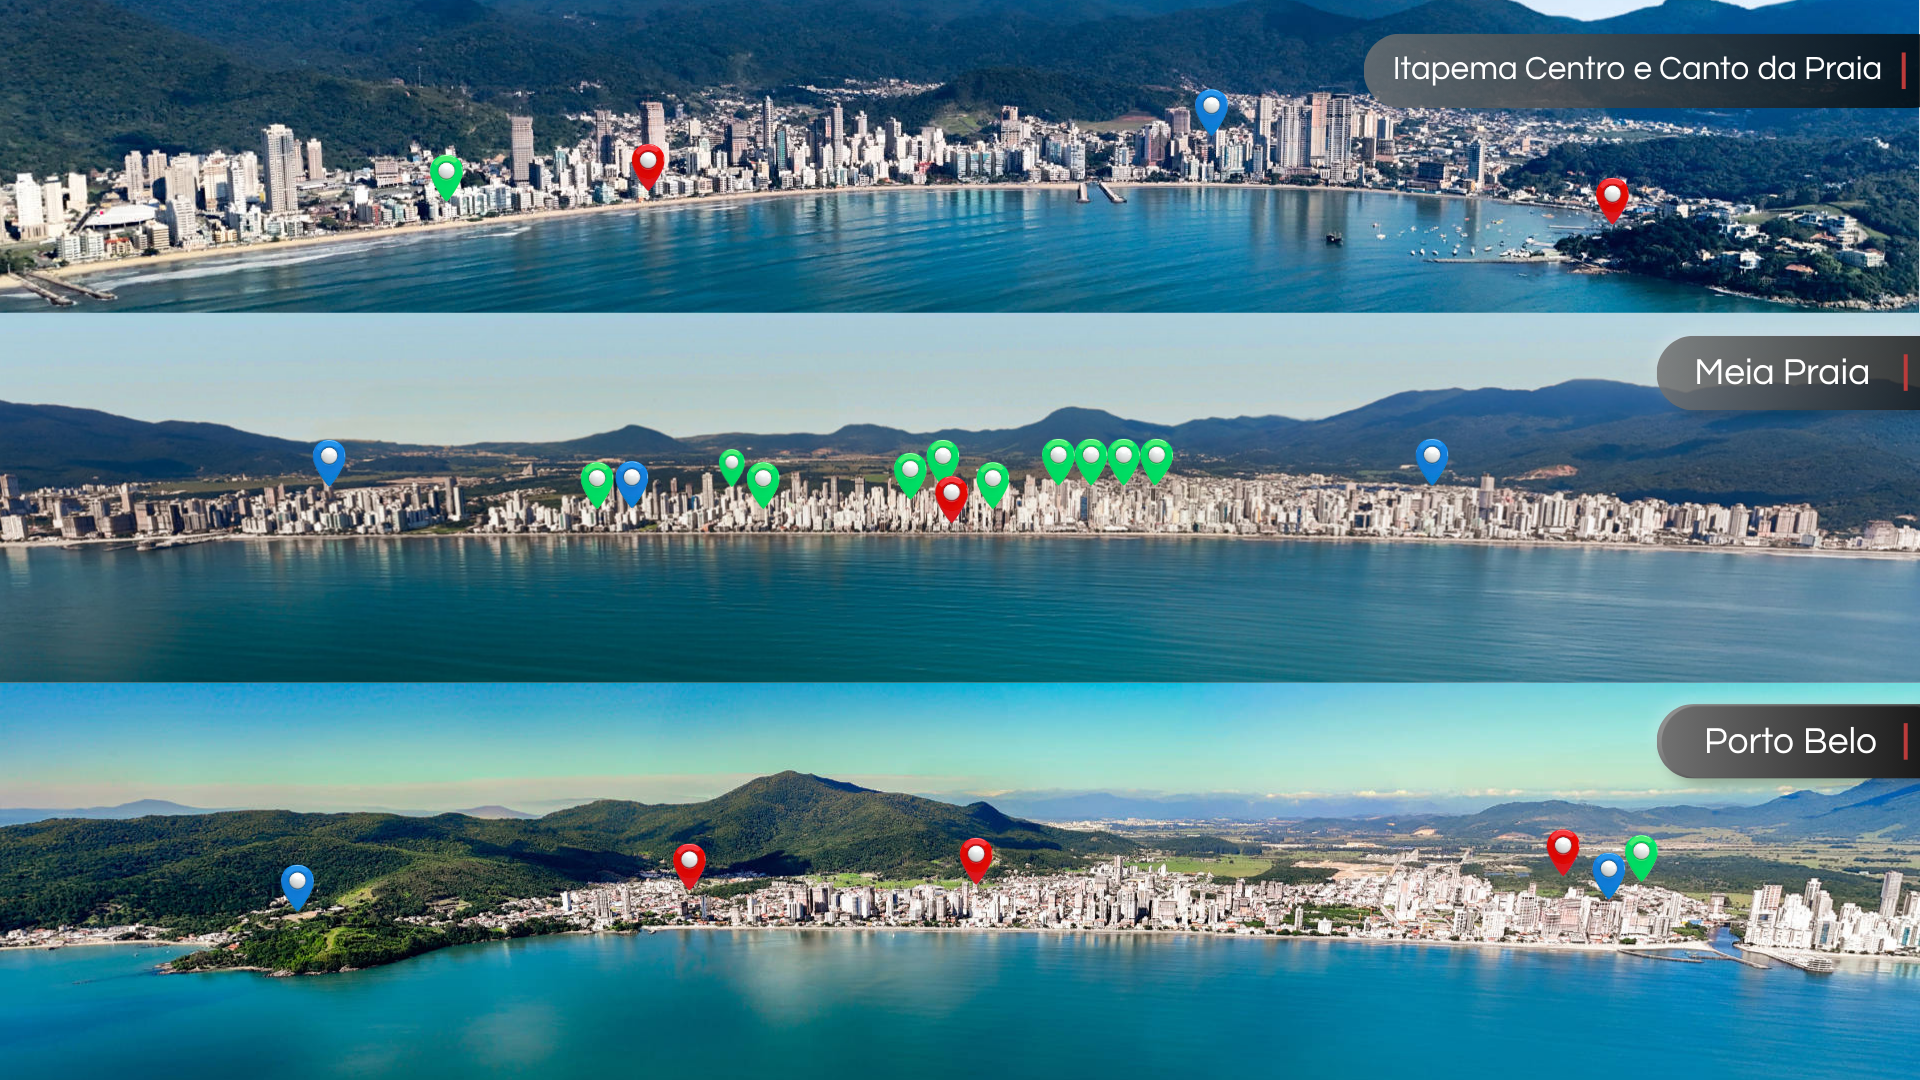
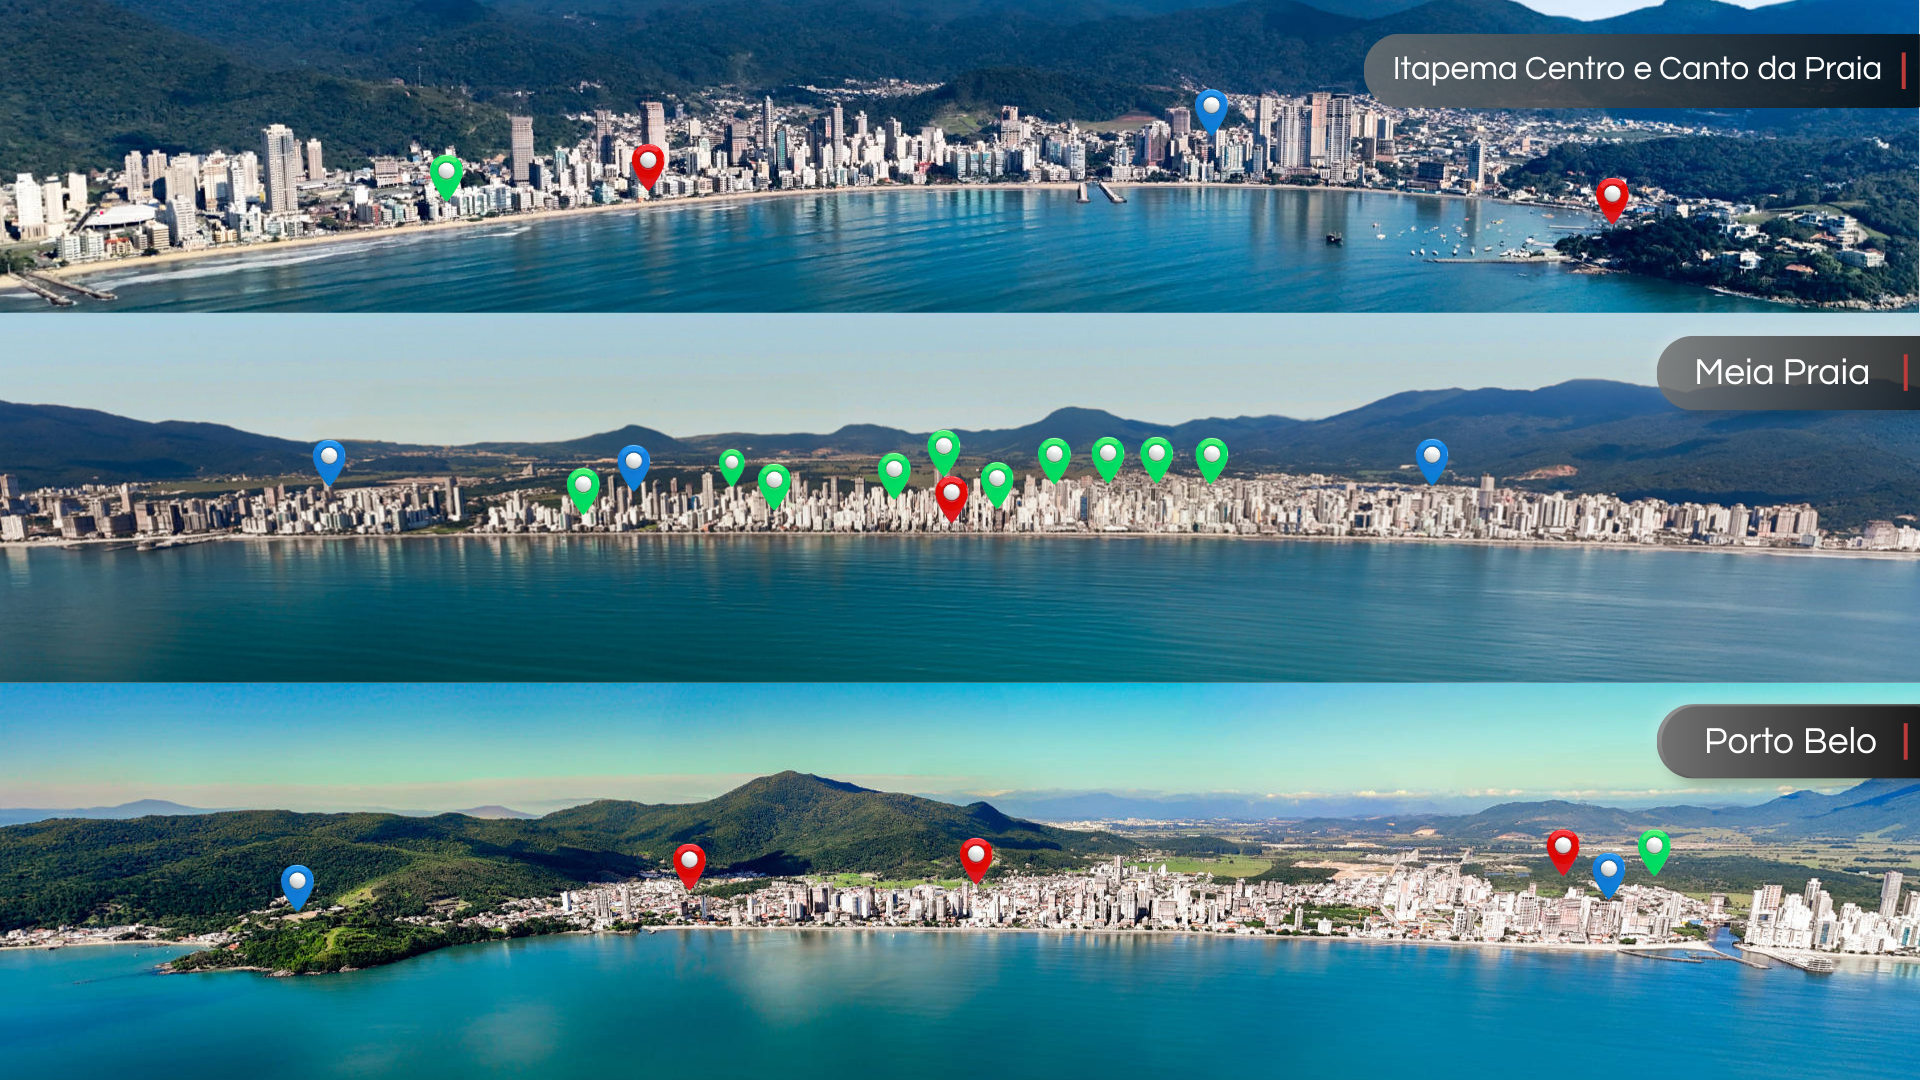
s10: nova imagem mapa, pinos Itapema recalibrados, fix mobile toque, aviso rotação maior

Changed region(s): [[0.375, 0.3972, 0.6562, 0.4889], [0.2812, 0.3972, 0.3438, 0.4889], [0.8438, 0.7639, 0.875, 0.825]]

diff --git a/index.html b/index.html
@@ -99,6 +99,7 @@ p,span,div{font-family:var(--font-b)}
 .mpin{position:absolute;transform:translate(-50%,-50%);cursor:pointer;z-index:30;width:48px;height:48px;border-radius:50%;background:rgba(255,255,255,0.02)}
 .mpin-tip{display:none;position:absolute;bottom:calc(100% + 6px);left:50%;transform:translateX(-50%);padding:5px 13px;border-radius:4px;font-family:'Barlow Condensed','Arial Narrow',Arial,sans-serif;font-size:13px;font-weight:800;letter-spacing:.1em;text-transform:uppercase;white-space:nowrap;pointer-events:none;color:#fff;box-shadow:0 2px 12px rgba(0,0,0,.55);z-index:40}
 .mpin-tip.show{display:block}
+.mpin-tip.tip-below{bottom:auto;top:calc(100% + 6px)}
 .tc-red{background:#e0242c}
 .tc-blue{background:#1565c0}
 .tc-green{background:#1e8c3a}
@@ -1051,24 +1052,24 @@ p,span,div{font-family:var(--font-b)}
 
     <!-- ══ ITAPEMA CENTRO E CANTO DA PRAIA — posições calibradas por pixel scan ══ -->
     <div class="mpin" style="left:23%;top:16%"><div class="mpin-tip tc-green">LINS</div></div>
-    <div class="mpin" style="left:34%;top:16%"><div class="mpin-tip tc-red" data-i18n="s10-pin-soon">Em Breve</div></div>
-    <div class="mpin" style="left:63%;top:10%"><div class="mpin-tip tc-blue">Accendis</div></div>
-    <div class="mpin" style="left:84%;top:18%"><div class="mpin-tip tc-red" data-i18n="s10-pin-soon">Em Breve</div></div>
+    <div class="mpin" style="left:34%;top:15%"><div class="mpin-tip tc-red" data-i18n="s10-pin-soon">Em Breve</div></div>
+    <div class="mpin" style="left:63%;top:9.5%"><div class="mpin-tip tc-blue">Accendis</div></div>
+    <div class="mpin" style="left:84%;top:17.5%"><div class="mpin-tip tc-red" data-i18n="s10-pin-soon">Em Breve</div></div>
 
     <!-- ══ MEIA PRAIA — posições calibradas por pixel scan ══ -->
-    <div class="mpin" style="left:17%;top:42%"><div class="mpin-tip tc-blue">Thiesen</div></div>
+    <div class="mpin" style="left:17%;top:43%"><div class="mpin-tip tc-blue">Thiesen</div></div>
     <div class="mpin" style="left:74%;top:41%"><div class="mpin-tip tc-blue">Mellizo</div></div>
-    <div class="mpin" style="left:31%;top:44%"><div class="mpin-tip tc-green">Denver</div></div>
-    <div class="mpin" style="left:33%;top:45%"><div class="mpin-tip tc-blue">Serenity</div></div>
+    <div class="mpin" style="left:30%;top:44%"><div class="mpin-tip tc-green">Denver</div></div>
+    <div class="mpin" style="left:33%;top:43%"><div class="mpin-tip tc-blue">Serenity</div></div>
     <div class="mpin" style="left:38%;top:44%"><div class="mpin-tip tc-green">Acqua</div></div>
     <div class="mpin" style="left:40%;top:45%"><div class="mpin-tip tc-green">Horizon</div></div>
     <div class="mpin" style="left:47%;top:44%"><div class="mpin-tip tc-green">Lunen</div></div>
     <div class="mpin" style="left:49%;top:43%"><div class="mpin-tip tc-green">Cannes</div></div>
     <div class="mpin" style="left:52%;top:44%"><div class="mpin-tip tc-green">Lisboa</div></div>
     <div class="mpin" style="left:55%;top:42%"><div class="mpin-tip tc-green">K.Center</div></div>
-    <div class="mpin" style="left:57%;top:42%"><div class="mpin-tip tc-green">Classic</div></div>
-    <div class="mpin" style="left:59%;top:42%"><div class="mpin-tip tc-green">Hanôver</div></div>
-    <div class="mpin" style="left:60%;top:42%"><div class="mpin-tip tc-green">Kalin</div></div>
+    <div class="mpin" style="left:58%;top:42%"><div class="mpin-tip tc-green">Classic</div></div>
+    <div class="mpin" style="left:61%;top:42%"><div class="mpin-tip tc-green">Hanôver</div></div>
+    <div class="mpin" style="left:63%;top:42%"><div class="mpin-tip tc-green">Kalin</div></div>
     <div class="mpin" style="left:50%;top:47%"><div class="mpin-tip tc-red" data-i18n="s10-pin-soon">Em Breve</div></div>
 
     <!-- ══ PORTO BELO — posições calibradas por pixel scan ══ -->
@@ -1076,7 +1077,7 @@ p,span,div{font-family:var(--font-b)}
     <div class="mpin" style="left:36%;top:79%"><div class="mpin-tip tc-red" data-i18n="s10-pin-soon">Em Breve</div></div>
     <div class="mpin" style="left:51%;top:77%"><div class="mpin-tip tc-red" data-i18n="s10-pin-soon">Em Breve</div></div>
     <div class="mpin" style="left:81%;top:78%"><div class="mpin-tip tc-red" data-i18n="s10-pin-soon">Em Breve</div></div>
-    <div class="mpin" style="left:85%;top:79%"><div class="mpin-tip tc-green">Riverside</div></div>
+    <div class="mpin" style="left:86%;top:79%"><div class="mpin-tip tc-green">Riverside</div></div>
     <div class="mpin" style="left:83%;top:79%"><div class="mpin-tip tc-blue">Soltero</div></div>
 
   </div>
@@ -1298,21 +1299,21 @@ p,span,div{font-family:var(--font-b)}
 #rotate-hint .rh-arrow{animation:rh-fade 2.4s ease-in-out infinite}
 </style>
 <div id="rotate-hint">
-  <div style="position:relative;width:72px;height:72px;display:flex;align-items:center;justify-content:center">
+  <div style="position:relative;width:110px;height:110px;display:flex;align-items:center;justify-content:center">
     <div class="rh-phone">
-      <svg xmlns="http://www.w3.org/2000/svg" width="52" height="52" viewBox="0 0 24 24" fill="none" stroke="#1a3a6e" stroke-width="1.8" stroke-linecap="round" stroke-linejoin="round"><rect x="5" y="2" width="14" height="20" rx="2"/><line x1="12" y1="18" x2="12.01" y2="18" stroke-width="2.5"/></svg>
+      <svg xmlns="http://www.w3.org/2000/svg" width="80" height="80" viewBox="0 0 24 24" fill="none" stroke="#3a6abf" stroke-width="1.8" stroke-linecap="round" stroke-linejoin="round"><rect x="5" y="2" width="14" height="20" rx="2"/><line x1="12" y1="18" x2="12.01" y2="18" stroke-width="2.5"/></svg>
     </div>
-    <div class="rh-arrow" style="position:absolute;right:-18px;top:50%;transform:translateY(-50%)">
-      <svg xmlns="http://www.w3.org/2000/svg" width="22" height="22" viewBox="0 0 24 24" fill="none" stroke="rgba(255,255,255,.5)" stroke-width="2" stroke-linecap="round" stroke-linejoin="round"><path d="M5 12h14M14 6l6 6-6 6"/></svg>
+    <div class="rh-arrow" style="position:absolute;right:-22px;top:50%;transform:translateY(-50%)">
+      <svg xmlns="http://www.w3.org/2000/svg" width="32" height="32" viewBox="0 0 24 24" fill="none" stroke="rgba(255,255,255,.7)" stroke-width="2" stroke-linecap="round" stroke-linejoin="round"><path d="M5 12h14M14 6l6 6-6 6"/></svg>
     </div>
-    <div style="position:absolute;right:-52px;top:50%;transform:translateY(-50%) rotate(-90deg)">
-      <svg xmlns="http://www.w3.org/2000/svg" width="52" height="52" viewBox="0 0 24 24" fill="none" stroke="rgba(26,58,110,.45)" stroke-width="1.8" stroke-linecap="round" stroke-linejoin="round"><rect x="5" y="2" width="14" height="20" rx="2"/><line x1="12" y1="18" x2="12.01" y2="18" stroke-width="2.5"/></svg>
+    <div style="position:absolute;right:-72px;top:50%;transform:translateY(-50%) rotate(-90deg)">
+      <svg xmlns="http://www.w3.org/2000/svg" width="80" height="80" viewBox="0 0 24 24" fill="none" stroke="rgba(58,106,191,.5)" stroke-width="1.8" stroke-linecap="round" stroke-linejoin="round"><rect x="5" y="2" width="14" height="20" rx="2"/><line x1="12" y1="18" x2="12.01" y2="18" stroke-width="2.5"/></svg>
     </div>
   </div>
-  <div style="width:48px;height:2px;background:var(--blue,#1a3a6e);margin-top:8px;border-radius:2px"></div>
-  <div style="font-family:'Barlow Condensed',Arial Narrow,sans-serif;font-size:1.35rem;font-weight:700;letter-spacing:.22em;text-transform:uppercase;color:#fff;line-height:1.3">Gire o dispositivo</div>
-  <div style="font-family:'Raleway',sans-serif;font-size:.92rem;color:rgba(255,255,255,.55);line-height:1.6;max-width:260px">Para a melhor experiência,<br>use o modo <strong style="color:rgba(255,255,255,.85)">paisagem</strong></div>
-  <div style="font-family:'Barlow Condensed',Arial Narrow,sans-serif;font-size:.78rem;letter-spacing:.18em;text-transform:uppercase;color:rgba(255,255,255,.3);margin-top:4px">Rotate for best experience</div>
+  <div style="width:60px;height:3px;background:#3a6abf;margin-top:16px;border-radius:2px"></div>
+  <div style="font-family:'Barlow Condensed',Arial Narrow,sans-serif;font-size:2rem;font-weight:800;letter-spacing:.22em;text-transform:uppercase;color:#fff;line-height:1.3">Gire o dispositivo</div>
+  <div style="font-family:'Raleway',sans-serif;font-size:1.2rem;color:rgba(255,255,255,.75);line-height:1.6;max-width:300px">Para a melhor experiência,<br>use o modo <strong style="color:#fff">paisagem</strong></div>
+  <div style="font-family:'Barlow Condensed',Arial Narrow,sans-serif;font-size:1rem;letter-spacing:.18em;text-transform:uppercase;color:rgba(255,255,255,.5);margin-top:6px">Rotate for best experience</div>
 </div>
 
 <script>
@@ -1900,19 +1901,34 @@ function fecharTodosPinos(){
 }
 document.querySelectorAll('.mpin').forEach(function(pin){
   var tip = pin.querySelector('.mpin-tip');
-  // Click: abre/fecha
+  // Touch: preventDefault bloqueia mouseenter/mouseleave sintéticos que causam o flash no mobile
+  pin.addEventListener('touchstart', function(e){
+    e.preventDefault();
+    e.stopPropagation();
+    var aberto = tip.classList.contains('show');
+    fecharTodosPinos();
+    if(!aberto) tip.classList.add('show');
+  }, {passive: false});
+  // touchend: para propagação para não disparar navegação de slide
+  pin.addEventListener('touchend', function(e){
+    e.stopPropagation();
+  }, {passive: false});
+  // Click: toggle (desktop)
   pin.addEventListener('click', function(e){
     e.stopPropagation();
     var aberto = tip.classList.contains('show');
     fecharTodosPinos();
     if(!aberto) tip.classList.add('show');
   });
-  // Hover também funciona
+  // Hover: desktop
   pin.addEventListener('mouseenter', function(){ tip.classList.add('show'); });
   pin.addEventListener('mouseleave', function(){ tip.classList.remove('show'); });
 });
-// Clica fora = fecha tudo
+// Clica/toca fora = fecha tudo
 document.addEventListener('click', fecharTodosPinos);
+document.addEventListener('touchstart', function(e){
+  if(!e.target.closest('.mpin')) fecharTodosPinos();
+}, {passive: true});
 
 // ── S1 · VÍDEO DA CAPA MAIS LENTO (loop mais suave) ──
 (function(){